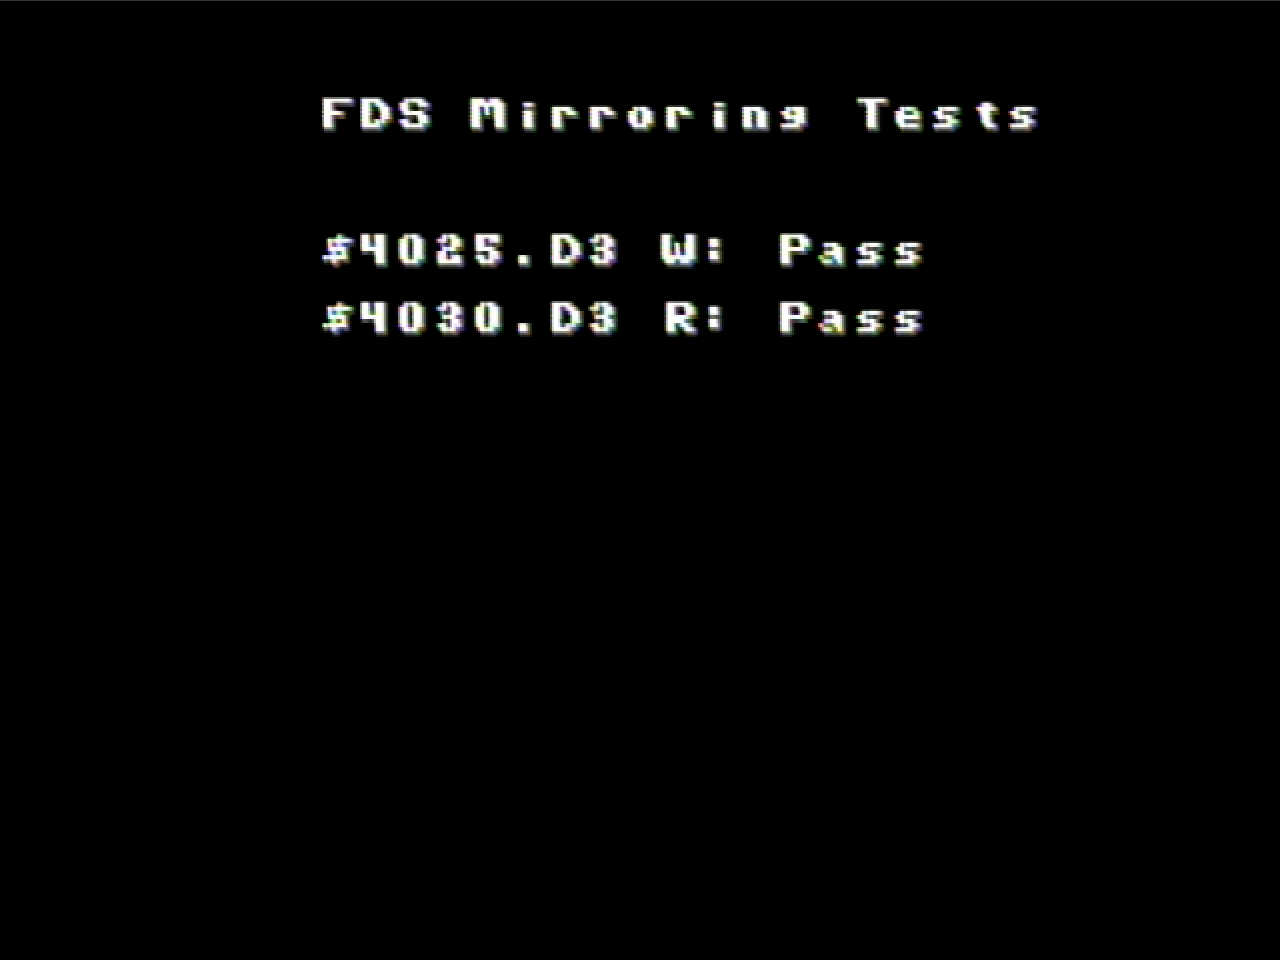
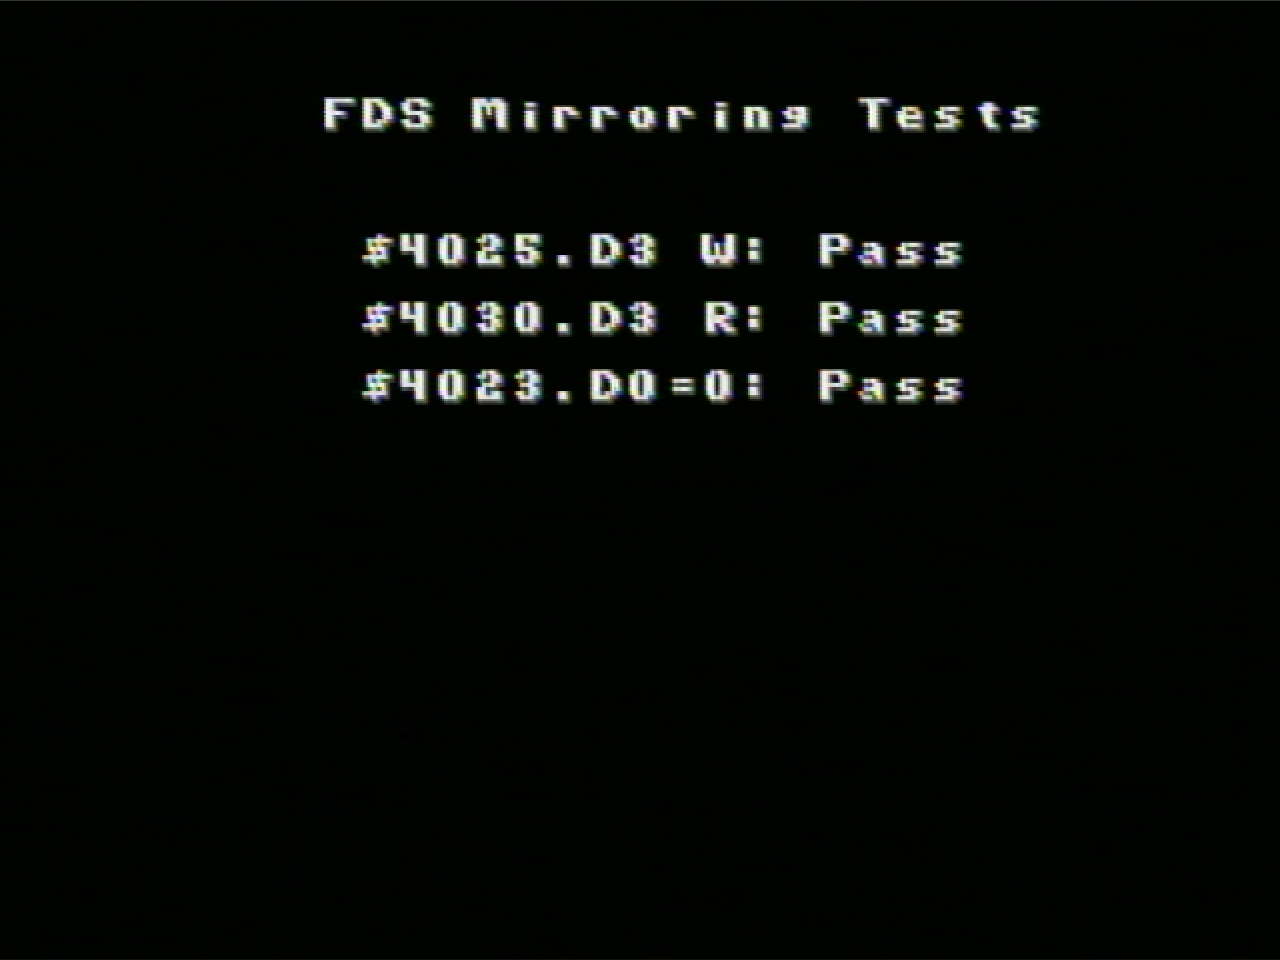
Update README New hardware capture Add zip makefile rule

Changed region(s): [[0.25, 0.3125, 0.75, 0.4375], [0.25, 0.0938, 0.8125, 0.1562], [0.25, 0.2188, 0.75, 0.2812]]

diff --git a/README.md b/README.md
@@ -1,6 +1,6 @@
 # FDS BIOS Dumper
 
-This program tests the FDS' ability to switch the nametable arrangement/mirroring via $4025.D3. It also verifies that its state is readable via $4030.D3 (previously undocumented behaviour).
+This program tests the FDS' ability to switch the nametable arrangement/mirroring via $4025.D3, along with some previously undocumented behaviours pertaining to $4030.D3 and $4023.D0.
 
 NESdev forum post: https://forums.nesdev.org/viewtopic.php?p=300488#p300488
 
@@ -11,8 +11,9 @@ Simply load the program into an FDS, whether it be original hardware or on an em
 The test results will be shown in the following manner:
 - $4025.D3 W: Pass/Fail (nametable arrangement must be switchable) 
 - $4030.D3 R: Pass/Fail (nametable arrangement status must be readable)
+- $4023.D0=0: Pass/Fail ($4023.D0=0 writes must reset nametable arrangement)
 
-Original hardware should pass both tests:
+Original hardware should pass all tests:
 ![Screen capture from a Sharp Twin Famicom](/img/FDS-Mirroring-Test_TwinFC.png)
 
 ## Building
